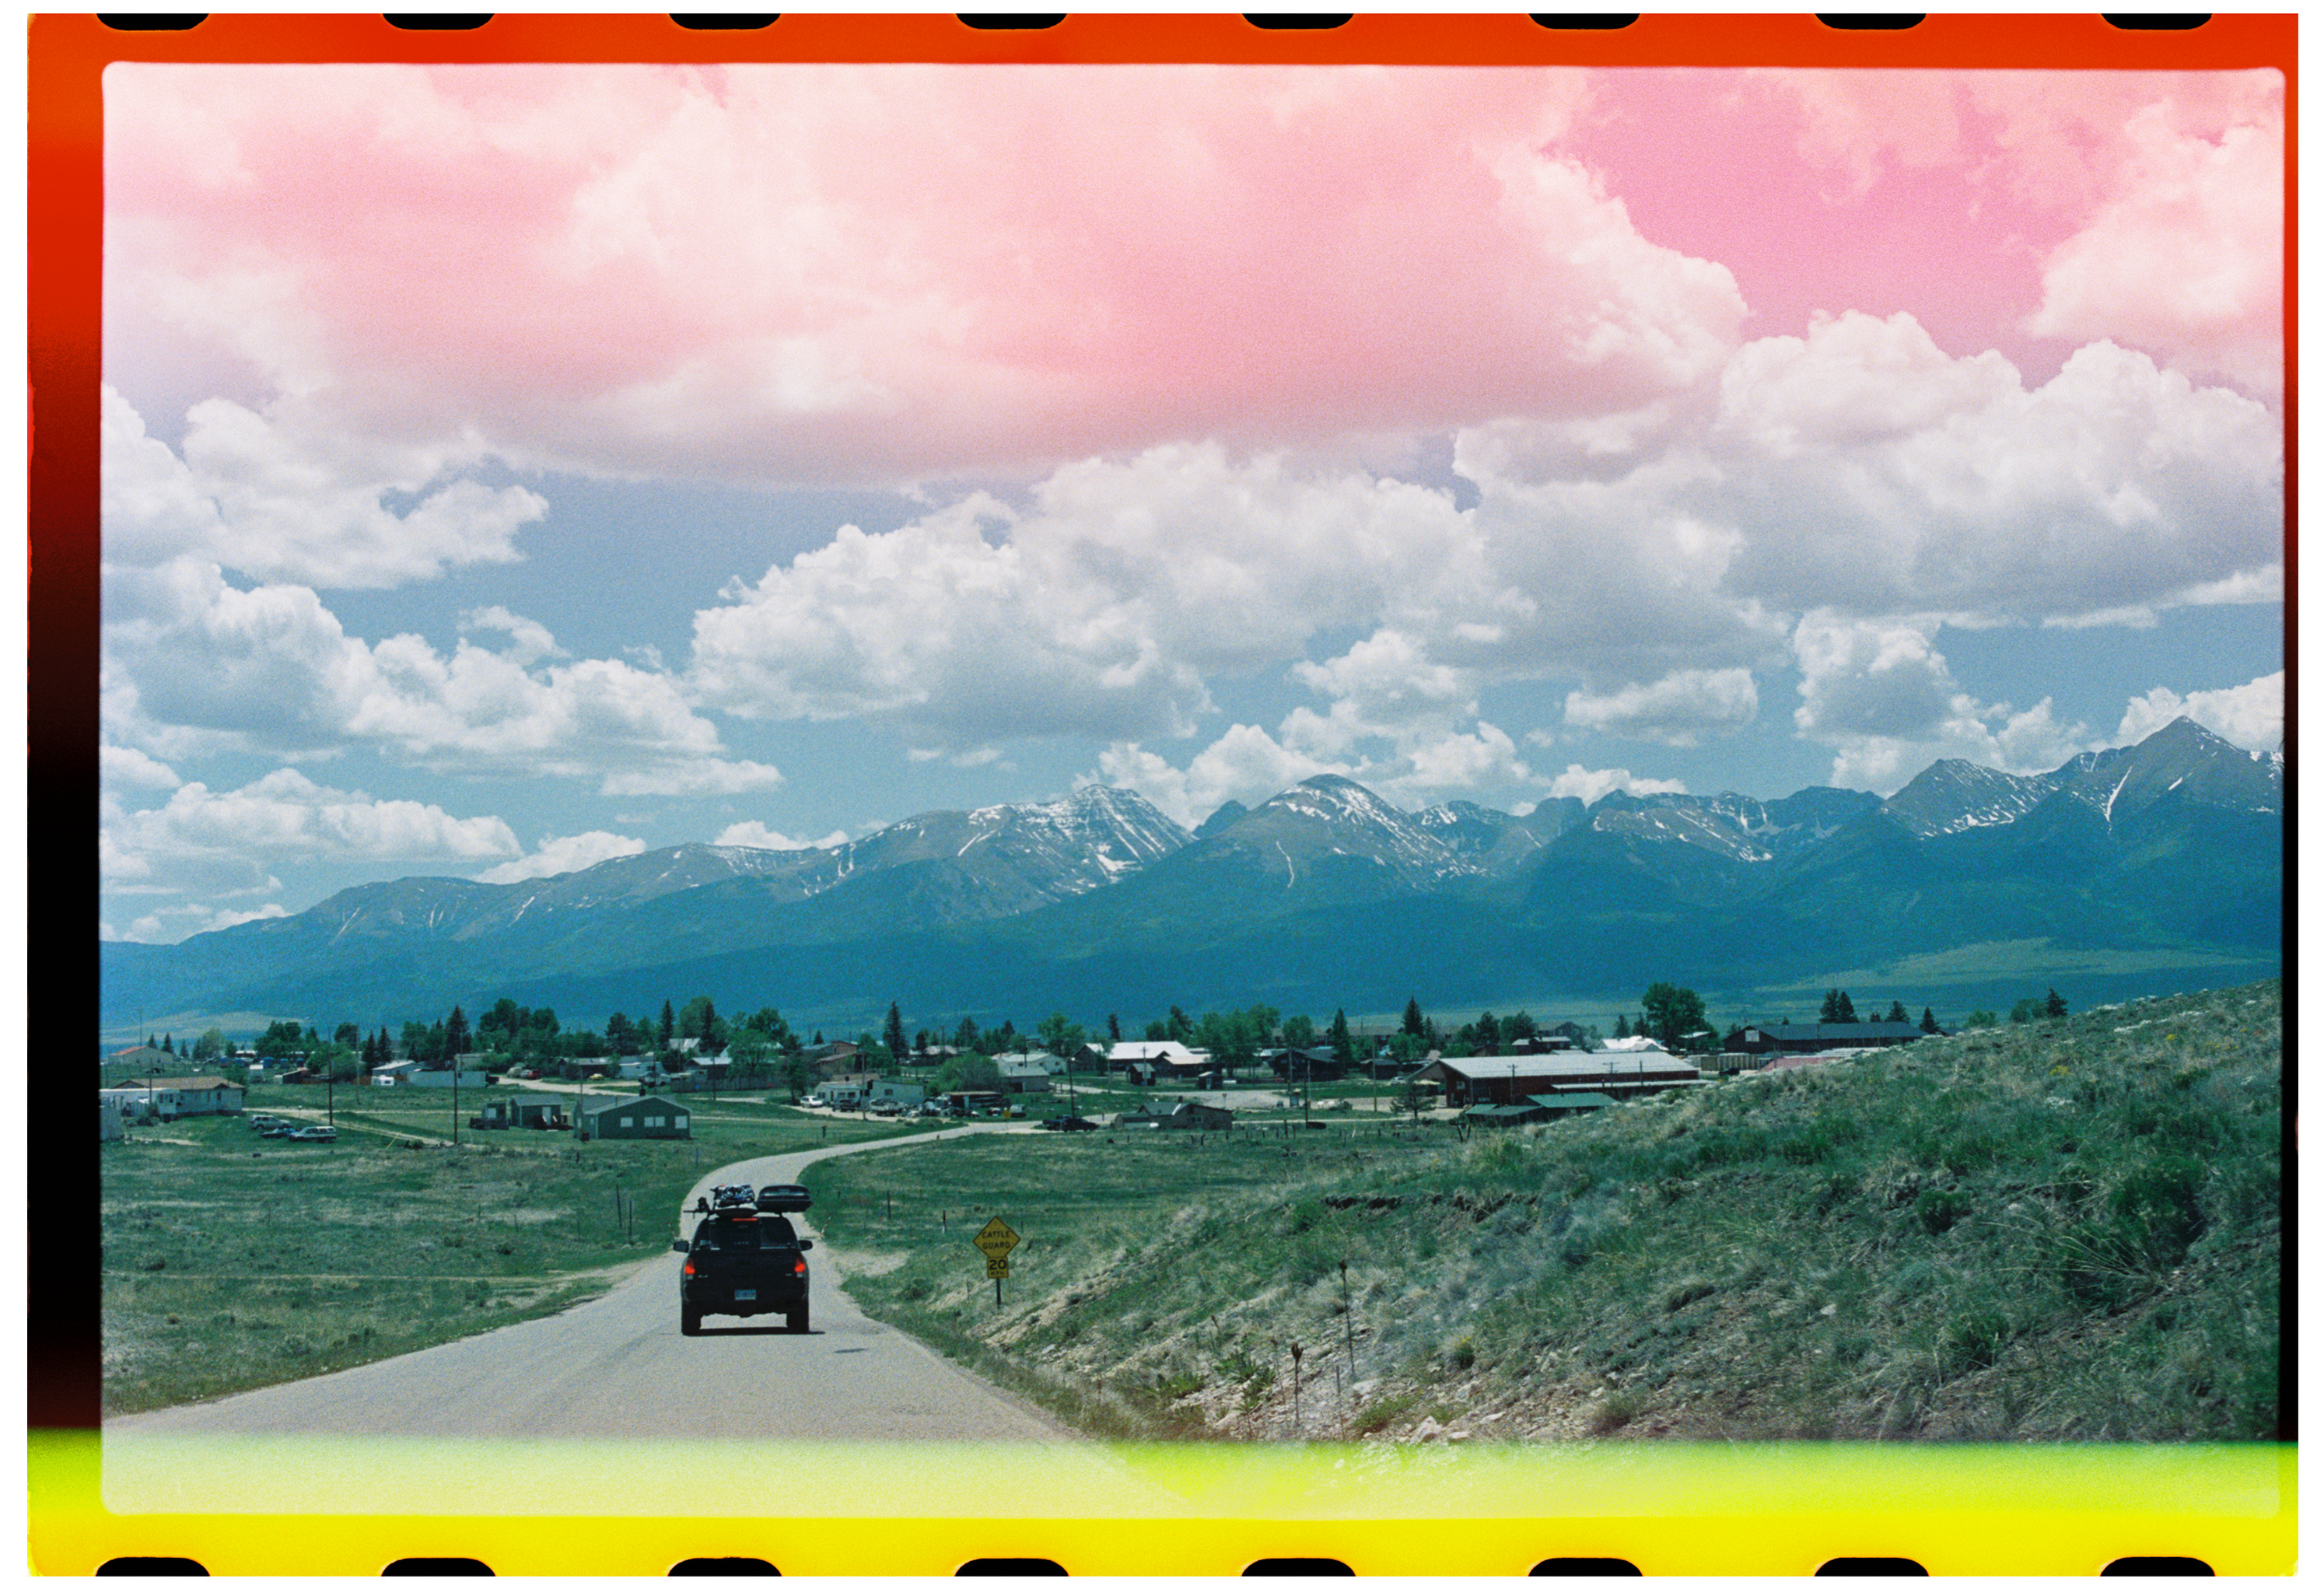
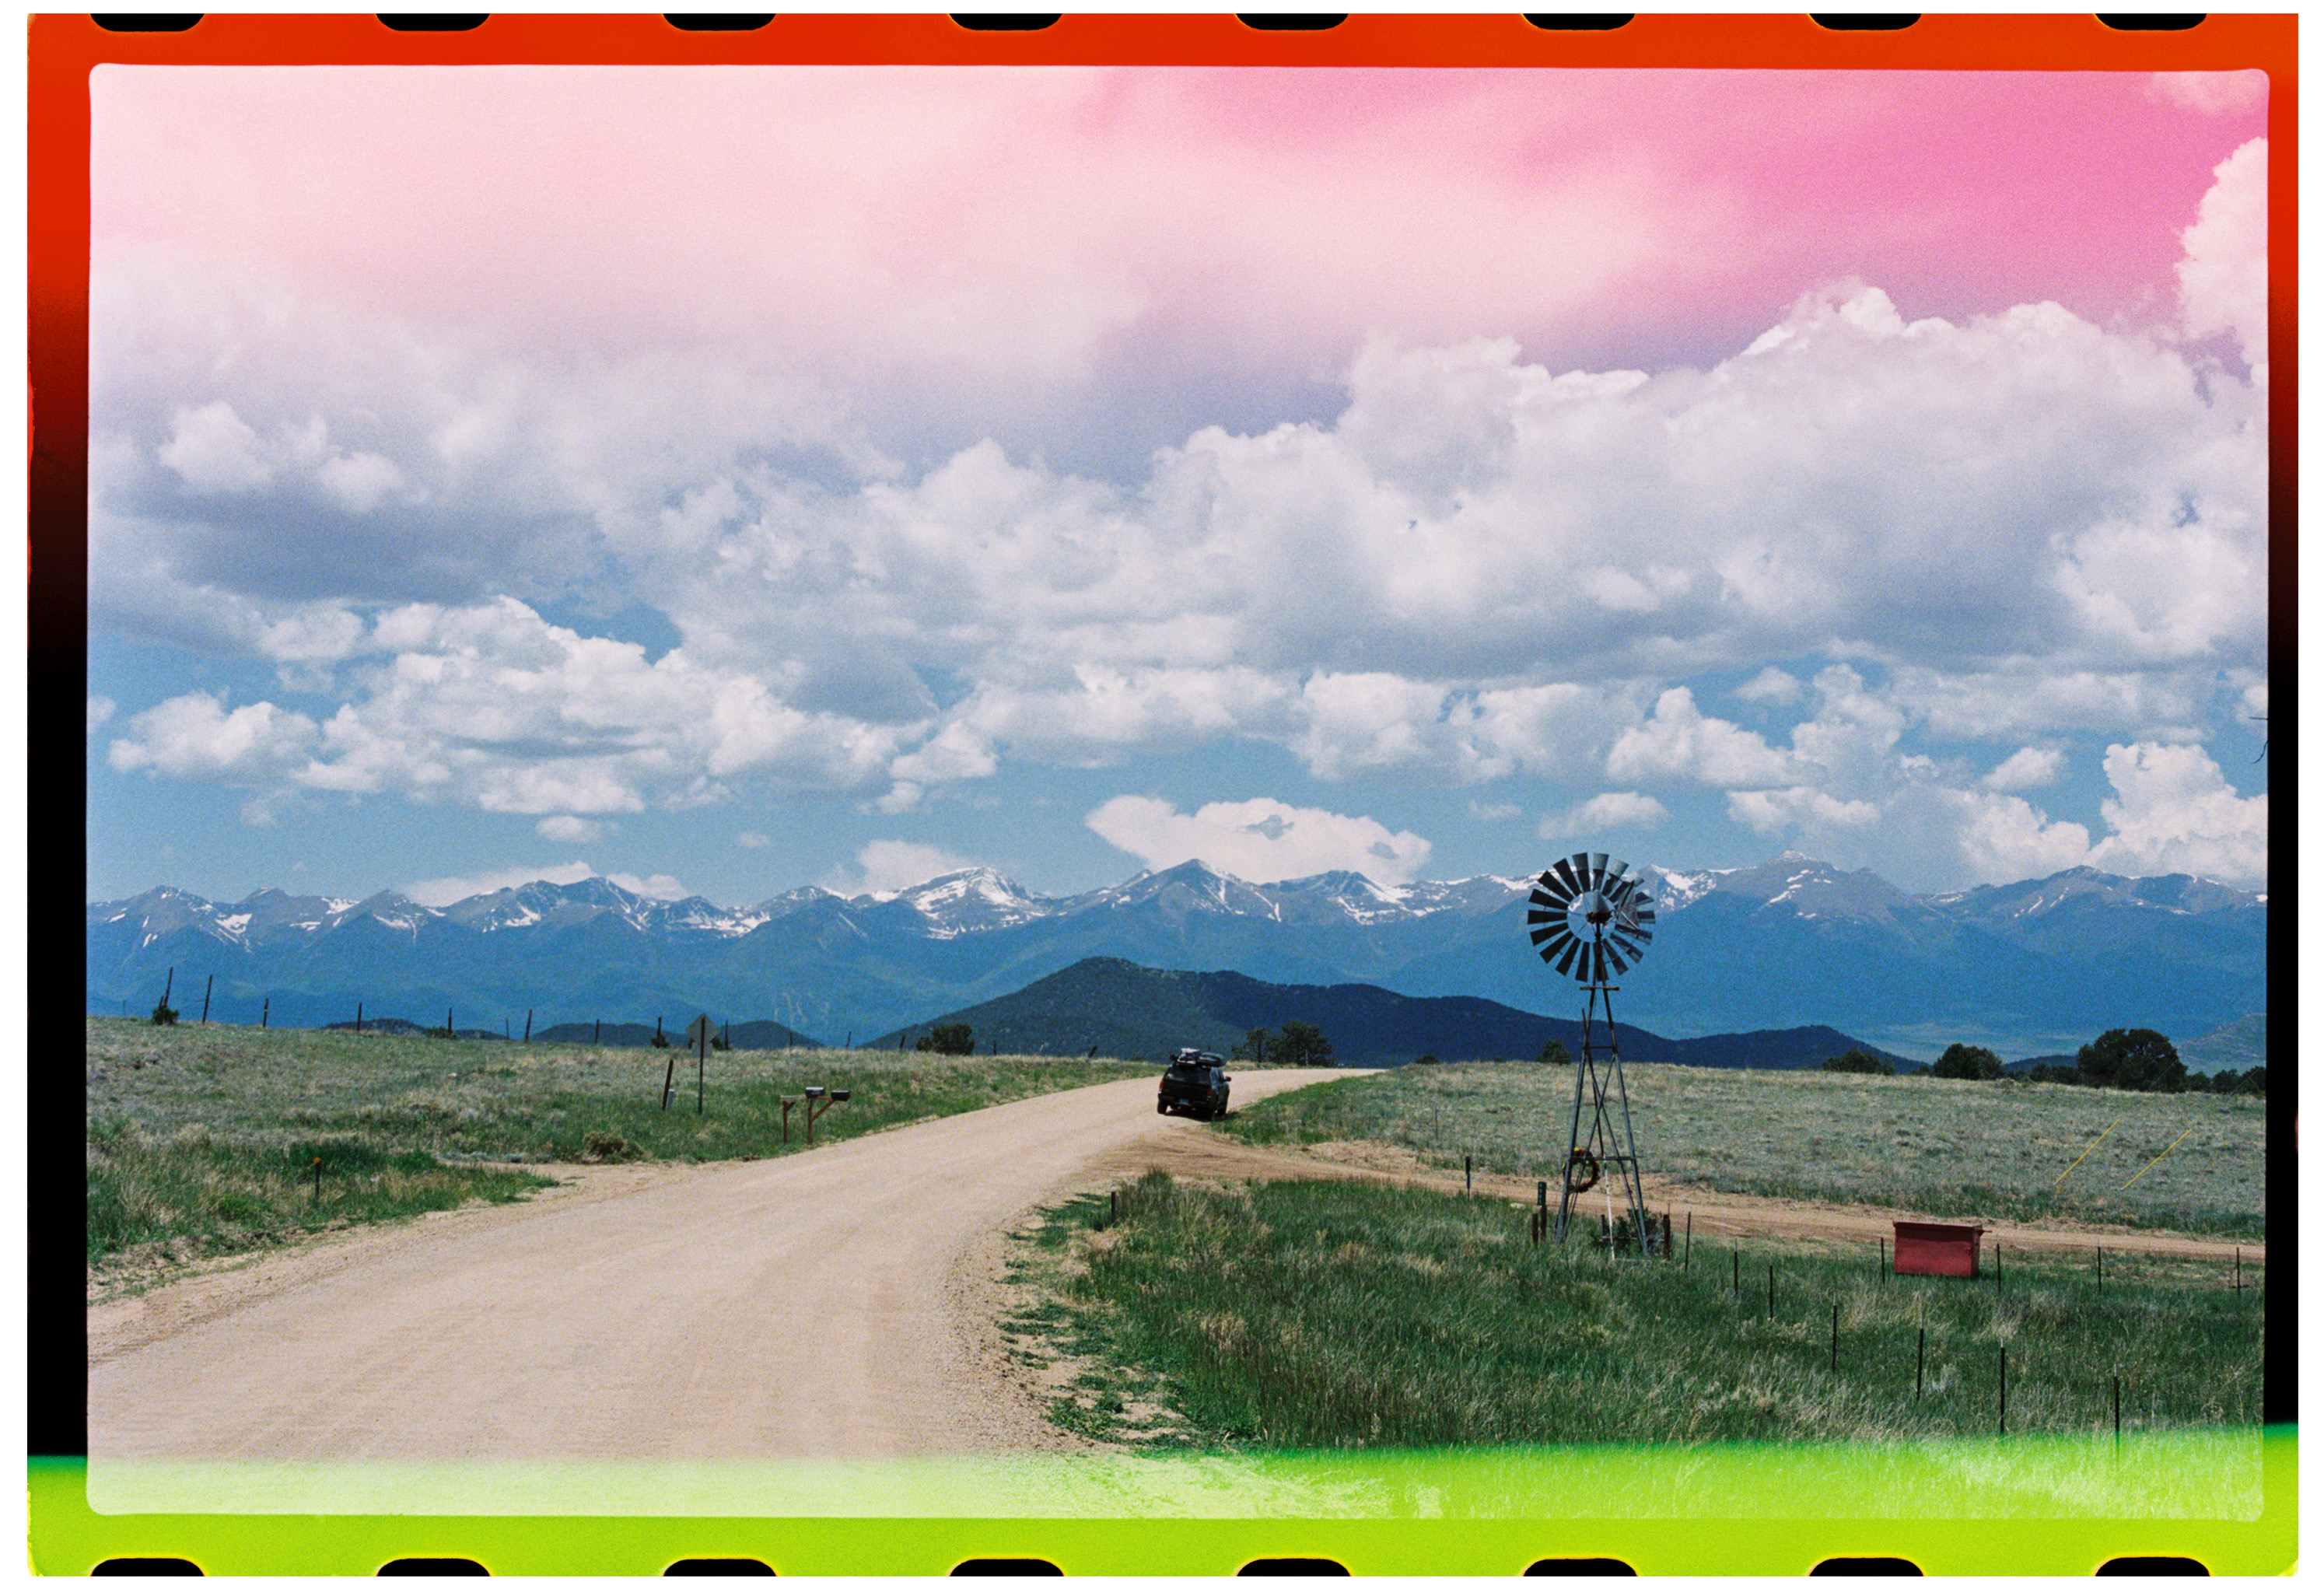
Add files via upload

diff --git a/index.html b/index.html
@@ -303,7 +303,7 @@
     <div class="hero">
       <div class="headshot">
         <!-- Replace this div with: <img src="headshot.jpg" alt="Will Eykyn" /> once you have a headshot -->
-        <div class="headshot-placeholder">Add headshot.jpg</div>
+        <img src="headshot.jpg" alt="Will Eykyn" />
       </div>
       <div class="hero-text">
         <h1>Data &amp; Software Engineer<br>based in Denver, CO</h1>